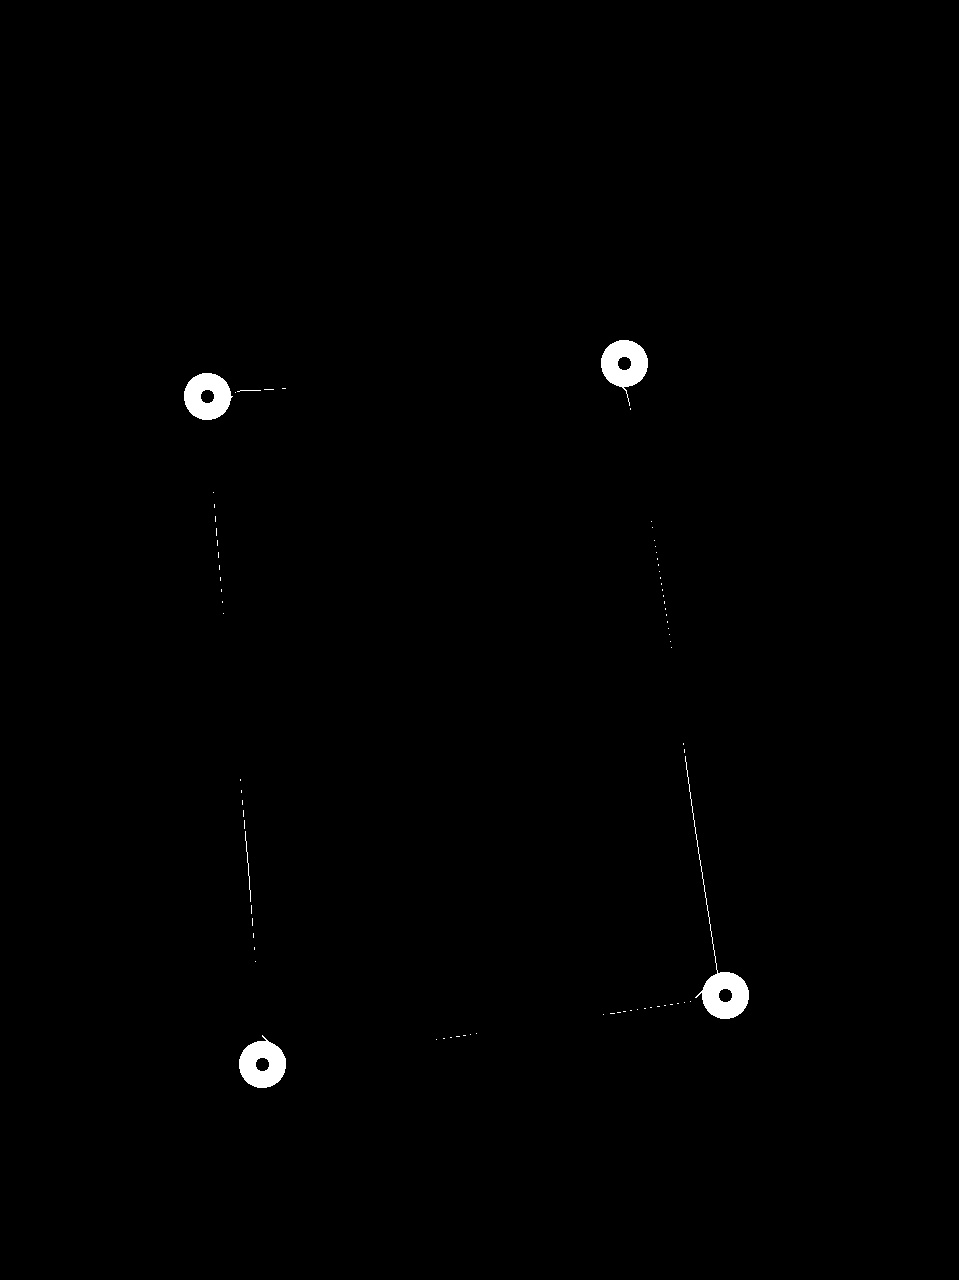
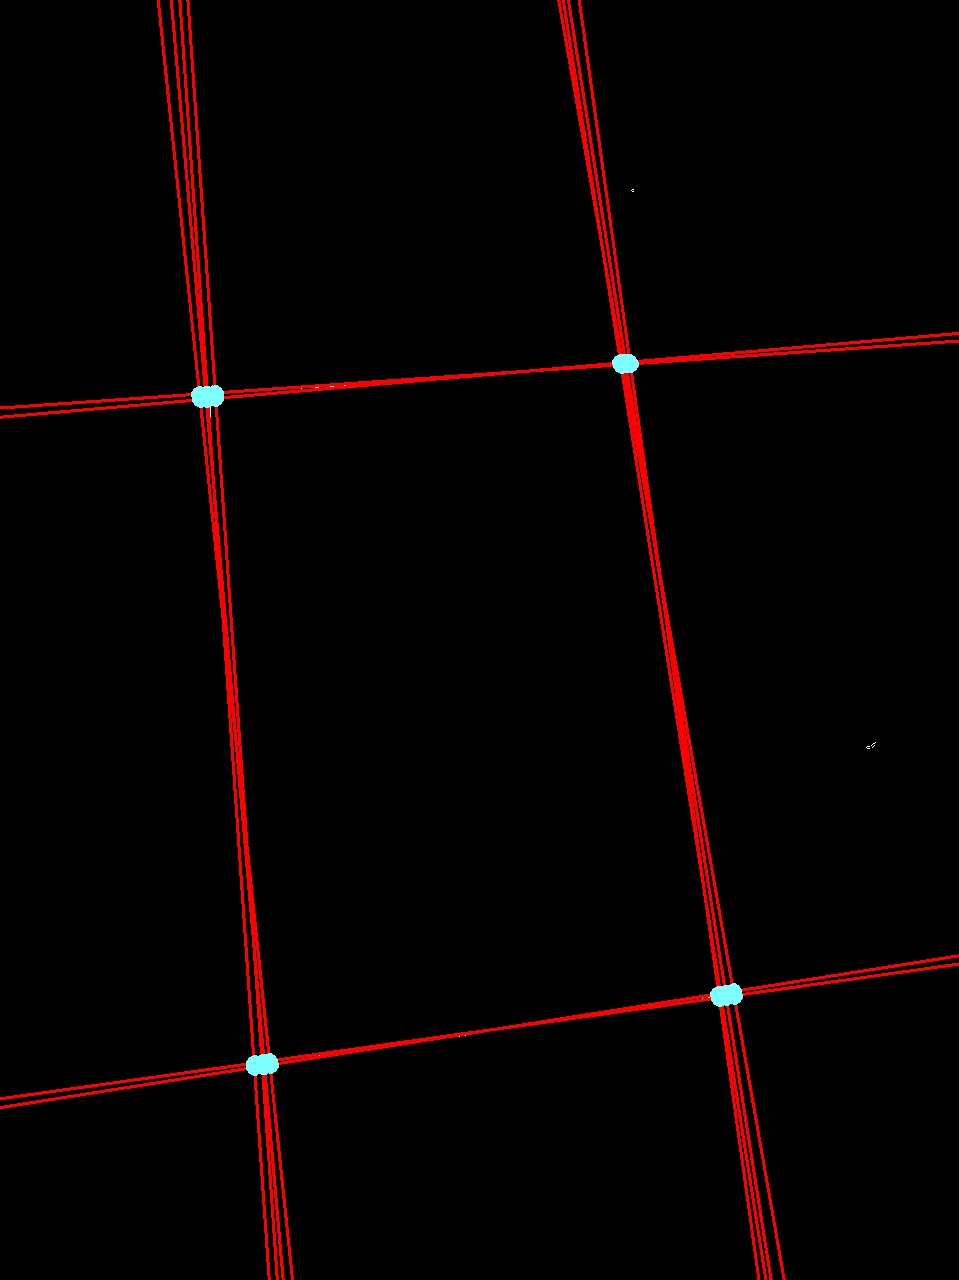
Changes made

Changed region(s): [[0.0, 0.0, 1.0, 1.0]]

diff --git a/hough_line_corner_detector.py b/hough_line_corner_detector.py
@@ -1,4 +1,4 @@
-from math import sin, cos
+from math import sin, cos, atan
 import cv2
 import numpy as np
 from matplotlib import pyplot as plt
@@ -7,21 +7,14 @@ from sklearn.cluster import KMeans
 from itertools import combinations
 
 
-class HoughLineParams:
-    def __init__(self, rho_acc = 1, theta_acc = 180, thresh = 100):
+class HoughLineCornerDetector:
+    def __init__(self, rho_acc = 2, theta_acc = 360, thresh = 100, output_process = True):
         self.rho_acc = rho_acc
         self.theta_acc = theta_acc
         self.thresh = thresh
-
-
-class HoughLineCornerDetector:
-    def __init__(self, hough_line_params, output_process = True):
-        assert isinstance(hough_line_params, HoughLineParams), "Invalid type for hough_line_params"
-        self._hough_line_params = hough_line_params
         self.output_process = output_process
         self._preprocessor = [
             Closer(output_process = output_process), 
-            Opener(output_process = output_process), 
             EdgeDetector(output_process = output_process)
         ]
 
@@ -33,28 +26,25 @@ class HoughLineCornerDetector:
             self._image = processor(self._image)
         
         # Step 2: Get hough lines
-        self._lines = self._get_edge_lines()
+        self._lines = self._get_hough_lines()
 
         # Step 3: Get intersection points
-        return self._get_intersections()
+        self._intersections = self._get_intersections()
+
+        # Step 4: Get Quadrilaterals
+        return self._find_quadrilaterals()
 
     
-    def _get_edge_lines(self):
-        # Step 1: Get all the hough lines
+    def _get_hough_lines(self):
         lines = cv2.HoughLines(
             self._image, 
-            self._hough_line_params.rho_acc, 
-            np.pi / self._hough_line_params.theta_acc, 
-            self._hough_line_params.thresh
+            self.rho_acc, 
+            np.pi / self.theta_acc, 
+            self.thresh
         )
         if self.output_process: self._draw_hough_lines(lines)
-
-        # Step 2: Cluster hough lines into 4 groups using kmeans
-        kmeans = self._cluster_lines(lines)
-        if self.output_process: self._draw_cluster_lines(lines, kmeans)
-
-        # Step 3: Returns cluster centers
-        return [[center.tolist()] for center in kmeans.cluster_centers_]
+        
+        return lines
 
     
     def _draw_hough_lines(self, lines):
@@ -80,29 +70,46 @@ class HoughLineCornerDetector:
 
         cv2.imwrite('output/hough_line.jpg', hough_line_output)
 
+    
+    def _get_intersections(self):
+        """Finds the intersections between groups of lines."""
+        lines = self._lines
+        intersections = []
+        group_lines = combinations(range(len(lines)), 2)
+        x_in_range = lambda x: 0 <= x <= self._image.shape[1]
+        y_in_range = lambda y: 0 <= y <= self._image.shape[0]
 
-    def _cluster_lines(self, lines):
-        X = np.array([[line[0][0], line[0][1]] for line in lines])
+        for i, j in group_lines:
+            line_i, line_j = lines[i][0], lines[j][0]
+            
+            if 80.0 < self._get_angle_between_lines(line_i, line_j) < 100.0:
+                int_point = self._intersection(line_i, line_j)
+                
+                if x_in_range(int_point[0][0]) and y_in_range(int_point[0][1]): 
+                    intersections.append(int_point)
+
+        if self.output_process: self._draw_intersections(intersections)
+
+        return intersections
+
+
+    def _find_quadrilaterals(self):
+        X = np.array([[point[0][0], point[0][1]] for point in self._intersections])
         kmeans = KMeans(
             n_clusters = 4, 
             init = 'k-means++', 
-            max_iter = 300, 
+            max_iter = 100, 
             n_init = 10, 
             random_state = 0
         ).fit(X)
-        
-        return kmeans
+
+        if self.output_process: self._draw_quadrilaterals(self._lines, kmeans)
+
+        return  [[center.tolist()] for center in kmeans.cluster_centers_]
 
 
-    def _draw_cluster_lines(self, lines, kmeans):
+    def _draw_quadrilaterals(self, lines, kmeans):
         grouped_output = self._get_color_image()
-        LABEL_COLOR_MAP = {
-            0 : (255, 0, 0),
-            1 : (0, 255, 0),
-            2 : (0, 0, 255),
-            3 : (255, 0, 255)
-        }
-        label_color = [LABEL_COLOR_MAP[l] for l in kmeans.labels_]
 
         for idx, line in enumerate(lines):
             rho, theta = line[0]
@@ -118,35 +125,33 @@ class HoughLineCornerDetector:
                 grouped_output, 
                 (x1, y1), 
                 (x2, y2), 
-                label_color[idx], 
+                (0, 0, 255), 
                 2
+            )
+        
+        for point in kmeans.cluster_centers_:
+            x, y = point
+
+            cv2.circle(
+                grouped_output,
+                (int(x), int(y)),
+                5,
+                (255, 255, 255),
+                5
             )
 
         cv2.imwrite('output/grouped.jpg', grouped_output)
 
     
-    def _get_intersections(self):
-        """Finds the intersections between groups of lines."""
-        lines = self._lines
-        group_pair = combinations(range(0, 4), 2)
-
-        intersections = []
-
-        x_in_range = lambda x: 0 <= x <= self._image.shape[1]
-        y_in_range = lambda y: 0 <= y <= self._image.shape[0]
-
-        for i, j in group_pair:
-            for line1 in lines[i]:
-                for line2 in lines[j]:
-                    int_point = self._intersection(line1, line2)
-                    
-                    if x_in_range(int_point[0][0]) and y_in_range(int_point[0][1]): 
-                        intersections.append(int_point)
-
-
-        if self.output_process: self._draw_intersections(intersections)
-
-        return intersections
+    def _get_angle_between_lines(self, line_1, line_2):
+        rho1, theta1 = line_1
+        rho2, theta2 = line_2
+        # x * cos(theta) + y * sin(theta) = rho
+        # y * sin(theta) = x * (- cos(theta)) + rho
+        # y = x * (-cos(theta) / sin(theta)) + rho
+        m1 = -(np.cos(theta1) / np.sin(theta1))
+        m2 = -(np.cos(theta2) / np.sin(theta2))
+        return abs(atan(abs(m2-m1) / (1 + m2 * m1))) * (180 / np.pi)
 
     
     def _intersection(self, line1, line2):
@@ -170,7 +175,7 @@ class HoughLineCornerDetector:
 
 
     def _draw_intersections(self, intersections):
-        intersection_point_output = self._image.copy()
+        intersection_point_output = self._get_color_image()
 
         for line in self._lines:
             rho, theta = line[0]
@@ -198,9 +203,9 @@ class HoughLineCornerDetector:
             cv2.circle(
                 intersection_point_output,
                 (x, y),
-                15,
+                5,
                 (255, 255, 127),
-                15
+                5
             )
 
         cv2.imwrite('output/intersection_point_output.jpg', intersection_point_output)

diff --git a/page_extractor.py b/page_extractor.py
@@ -114,8 +114,19 @@ class PageExtractor:
 
 
 if __name__ == "__main__":
-    from hough_line_corner_detector import HoughLineCornerDetector, HoughLineParams
+    import argparse
+    from hough_line_corner_detector import HoughLineCornerDetector
     from processors import Resizer, OtsuThresholder, FastDenoiser
+
+    parser = argparse.ArgumentParser(description="Python script to detect and extract documents.")
+
+    parser.add_argument(
+        '-i',
+        '--input-image',
+        help = "Image containing the document",
+        required = True,
+        dest = 'input_image'
+    )
 
     page_extractor = PageExtractor(
         preprocessors = [
@@ -124,15 +135,13 @@ if __name__ == "__main__":
             OtsuThresholder(output_process = True)
         ],
         corner_detector = HoughLineCornerDetector(
-            hough_line_params = HoughLineParams(
-                rho_acc = 1,
-                theta_acc = 180,
-                thresh = 100
-            ),
+            rho_acc = 1,
+            theta_acc = 180,
+            thresh = 100,
             output_process = True
         )
     )
-    extracted = page_extractor('input/receipt.jpg')
-    cv2.imwrite("output/output.jpg", extracted)
+    args = parser.parse_args()
+    extracted = page_extractor(args.input_image)
     cv2.imshow("Extracted page", extracted)
     cv2.waitKey(0)

diff --git a/processors.py b/processors.py
@@ -2,7 +2,6 @@ import cv2
 import math
 from scipy import ndimage
 import numpy as np
-from skimage.filters import threshold_otsu
 
 class RotationCorrector:
     def __init__(self, output_process = False):
@@ -80,14 +79,15 @@ class OtsuThresholder:
     -------
     Thresholded image
     """
-    def __init__(self, output_process = False):
+    def __init__(self, thresh1 = 0, thresh2 = 255, output_process = False):
         self.output_process = output_process
+        self.thresh1 = thresh1
+        self.thresh2 = thresh2
 
 
     def __call__(self, image):
         image = cv2.cvtColor(image, cv2.COLOR_BGR2GRAY)
-        T = threshold_otsu(image)
-        thresholded = (image > T).astype("uint8") * 255
+        T_, thresholded = cv2.threshold(image, self.thresh1, self.thresh2, cv2.THRESH_BINARY + cv2.THRESH_OTSU)
         if self.output_process: cv2.imwrite('output/thresholded.jpg', thresholded)
         return thresholded
 

diff --git a/README.md b/README.md
@@ -1,2 +1,13 @@
 # Python Document Detector
-A simple document detector in python.
+A simple document detector in python. 
+
+# Environment setup
+Run the following command to install the necessary packages.
+```
+pip install -r requirements.txt
+```
+
+# Test run
+```
+python3 page_extractor.py -i 'input/receipt.jpg'
+```
